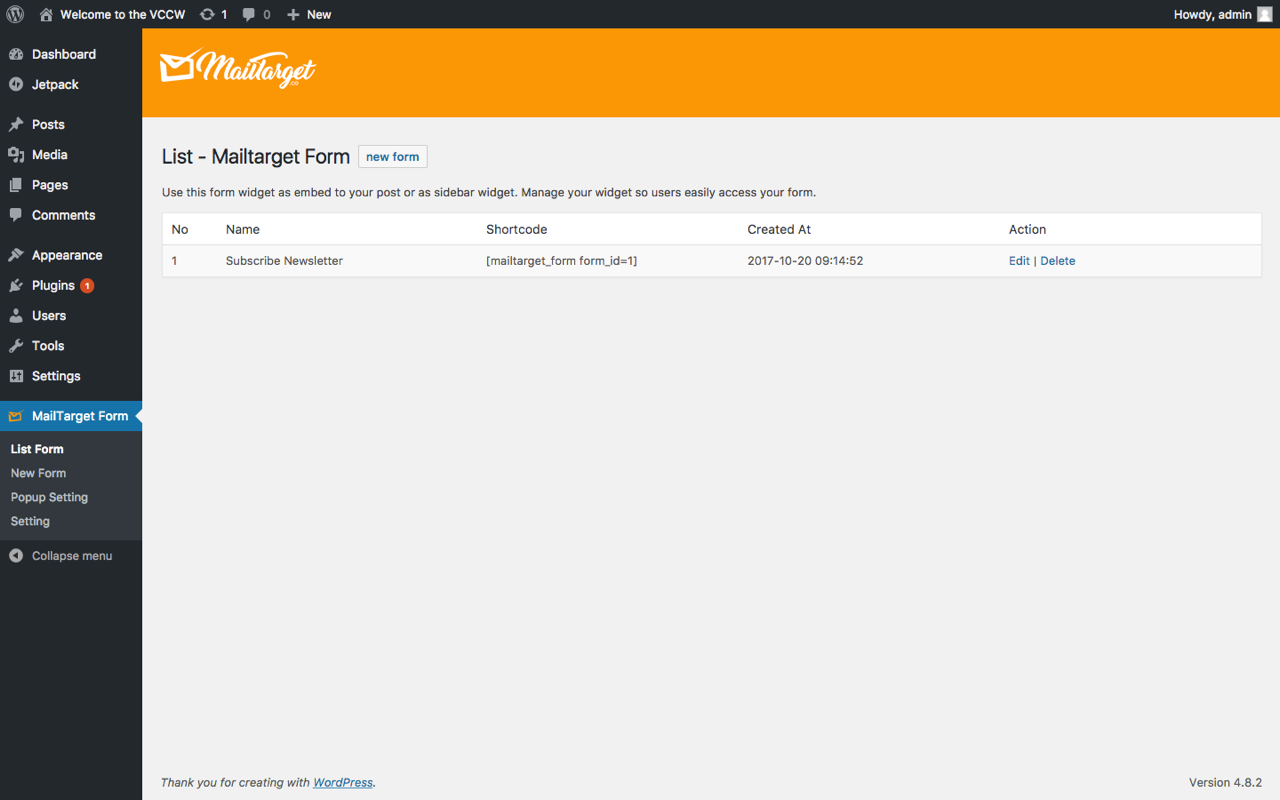
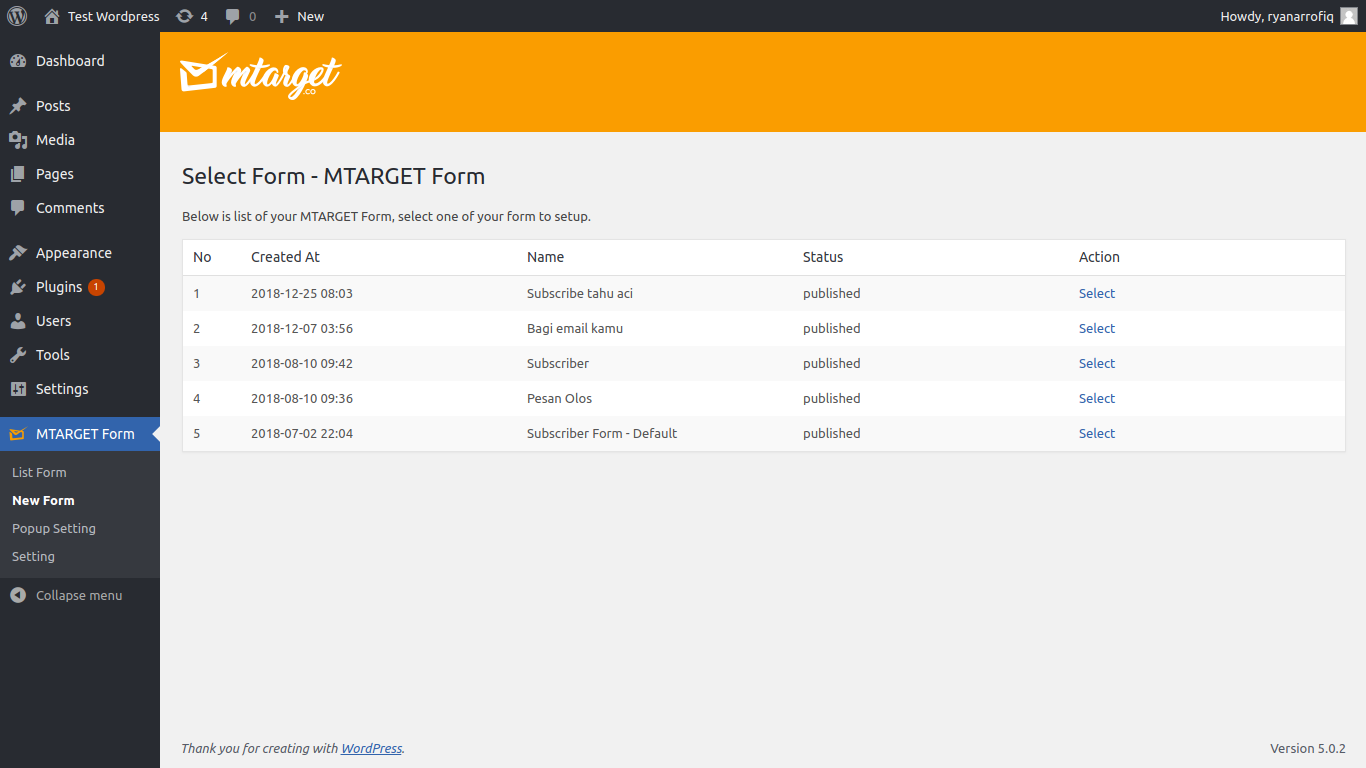
update text mtarget
git-svn-id: https://plugins.svn.wordpress.org/mailtarget-form/trunk@2005649 b8457f37-d9ea-0310-8a92-e5e31aec5664

diff --git a/views/admin/setup.php b/views/admin/setup.php
@@ -3,7 +3,7 @@ $popupEnable = esc_attr(get_option('mtg_popup_enable')) == '1';
 ?>
 
 <?php if (isset($_GET['success'])) {
-    ?><div class="update-nag">Mailtarget Form configuration updated successfully !</div><?php
+    ?><div class="update-nag">MTARGET Form configuration updated successfully !</div><?php
 } ?>
 
 <div class="mtg-form-plugin">
@@ -12,10 +12,10 @@ $popupEnable = esc_attr(get_option('mtg_popup_enable')) == '1';
     </div>
 
     <div class="wrap">
-        <h1 class="wp-heading-inline">Setup - Mailtarget Form</h1>
+        <h1 class="wp-heading-inline">Setup - MTARGET Form</h1>
         <div class="mtg-form-wrapper">
-            <p>Use this plugin to show your MailTarget Form in your Wordpress Application as embed to your post, as widget or as popup form. You may choose MailTarget Form directly from your Wordpress Application.</p>
-            <p>But you must set API token via form below, you can find the API token at integration page of MailTarget Application.</p>
+            <p>Use this plugin to show your MTARGET Form in your Wordpress Application as embed to your post, as widget or as popup form. You may choose MTARGET Form directly from your Wordpress Application.</p>
+            <p>But you must set API token via form below, you can find the API token at integration page of MTARGET Application.</p>
             <form method="post" action="admin.php?page=mailtarget-form-plugin--admin-menu">
                 <?php settings_fields( $this->option_group ); ?>
                 <?php do_settings_sections( $this->option_group ); ?>

diff --git a/views/admin/form_popup.php b/views/admin/form_popup.php
@@ -7,7 +7,7 @@ $popupEnable = esc_attr(get_option('mtg_popup_enable')) == '1';
 ?>
 
 <?php if (isset($_GET['success'])) {
-    ?><div class="update-nag">Mailtarget Form Popup configuration updated successfully !</div><?php
+    ?><div class="update-nag">MTARGET Form Popup configuration updated successfully !</div><?php
 } ?>
 
 <div class="mtg-form-plugin">
@@ -16,7 +16,7 @@ $popupEnable = esc_attr(get_option('mtg_popup_enable')) == '1';
     </div>
 
     <div class="wrap">
-        <h1 class="wp-heading-inline">Setup New Form - Mailtarget Form</h1>
+        <h1 class="wp-heading-inline">Setup New Form - MTARGET Form</h1>
         <div class="mtg-form-wrapper">
             <?php if ($formId != '') { ?>
                 <form method="post" action="admin.php?page=mailtarget-form-plugin--admin-menu">
@@ -24,7 +24,7 @@ $popupEnable = esc_attr(get_option('mtg_popup_enable')) == '1';
                     <?php do_settings_sections($this->option_group); ?>
                     <table class="form-table">
                         <tr class="user-rich-editing-wrap">
-                            <th>MailTarget Form Name</th>
+                            <th>MTARGET Form Name</th>
                             <td>
                                 <strong><?php echo esc_attr($formName) ?></strong>
                                 or <a class="page-title-action" href="admin.php?page=mailtarget-form-plugin--admin-menu-widget-form&for=popup">change form</a>

diff --git a/MailtargetFormPlugin.php b/MailtargetFormPlugin.php
@@ -1,11 +1,11 @@
 <?php
 
 /*
-  Plugin Name: MailTarget Form
-  Description: The MailTarget plugin to simplify embedding Mailtarget Form in your post or as widget, also easily to set Mailtarget Forms as popup.
-  Version: 1.0.3
-  Author: MailTarget Teams
-  Author URI: https://mailtarget.co/
+  Plugin Name: MTARGET Form
+  Description: The MTARGET plugin to simplify embedding MTARGET Form in your post or as widget, also easily to set MTARGET Forms as popup.
+  Version: 1.0.4
+  Author: MTARGET Teams
+  Author URI: https://mtarget.co/
   License: GPL V3
  */
 
@@ -57,7 +57,7 @@ class MailtargetFormPlugin {
         add_action( 'admin_init', array( $this, 'register_setting') );
         add_action( 'admin_init', array( $this, 'handling_admin_post') );
         add_action( 'init', array( $this, 'handling_post') );
-//        add_action( 'wp_ajax_nopriv_form_submit', array( $this, 'handling_ajax_post') );
+
 	}
 
 	public function get_plugin_url() {
@@ -421,8 +421,8 @@ class MailtargetFormPlugin {
 
 	function set_admin_menu () {
         add_menu_page(
-            'MailTarget Form',
-            'MailTarget Form',
+            'MTARGET Form',
+            'MTARGET Form',
             'manage_options',
             'mailtarget-form-plugin--admin-menu',
             null,

diff --git a/views/admin/error.php b/views/admin/error.php
@@ -25,15 +25,15 @@ if ($code == 413 and $data = 'invalid origin host') $errSlug = 'cap-domain-regis
     </div>
 
     <div class="wrap">
-        <h1 class="">Error - Mailtarget Form</h1>
+        <h1 class="">Error - MTARGET Form</h1>
         <?php switch ($errSlug) {
             case 'unset-api-key':
                 ?><div class="update-nag">Apikey not set, please update your apikey at
-                <a href="admin.php?page=mailtarget-form-plugin--admin-menu-config">mailtarget form setting</a></div><?php
+                <a href="admin.php?page=mailtarget-form-plugin--admin-menu-config">mtarget form setting</a></div><?php
                 break;
             case 'expired-token':
                 ?><div class="update-nag">Apikey invalid or expired, please update your apikey at
-                <a href="admin.php?page=mailtarget-form-plugin--admin-menu-config">mailtarget form setting</a></div><?php
+                <a href="admin.php?page=mailtarget-form-plugin--admin-menu-config">mtarget form setting</a></div><?php
                 break;
             case 'form-not-found':
                 ?><div class="update-nag">Form data not found, possible form not published yet</div><?php

diff --git a/views/admin/wp_form_add.php b/views/admin/wp_form_add.php
@@ -3,14 +3,14 @@
         <img src="<?php echo esc_url(MAILTARGET_PLUGIN_URL.'/assets/image/logo.png') ?>" />
     </div>
     <div class="wrap">
-        <h1 class="wp-heading-inline">Setup New Form - Mailtarget Form</h1>
+        <h1 class="wp-heading-inline">Setup New Form - MTARGET Form</h1>
         <div class="mtg-form-wrapper">
             <form method="post" action="admin.php?page=mailtarget-form-plugin--admin-menu">
                 <?php settings_fields( $this->option_group ); ?>
                 <?php do_settings_sections( $this->option_group ); ?>
                 <table class="form-table">
                     <tr class="user-rich-editing-wrap">
-                        <th>MailTarget Form Name</th>
+                        <th>MTARGET Form Name</th>
                         <td><strong><?php echo esc_attr($form['name']) ?></strong>
                             <input type="hidden" name="form_id" value="<?php echo esc_attr($form['formId']) ?>">
                         </td>

diff --git a/views/admin/wp_form_edit.php b/views/admin/wp_form_edit.php
@@ -15,7 +15,7 @@ if (isset($data->widget_redir)) $widget_redir = $data->widget_redir;
         <img src="<?php echo esc_url(MAILTARGET_PLUGIN_URL.'/assets/image/logo.png') ?>" />
     </div>
     <div class="wrap">
-        <h1 class="wp-heading-inline">Edit Form - Mailtarget Form</h1>
+        <h1 class="wp-heading-inline">Edit Form - MTARGET Form</h1>
         <div class="mtg-form-wrapper">
             <form method="post" action="admin.php?page=mailtarget-form-plugin--admin-menu">
                 <?php settings_fields( $this->option_group ); ?>

diff --git a/views/admin/form_list.php b/views/admin/form_list.php
@@ -11,8 +11,8 @@ $pg = isset($_GET['pg']) ? intval($_GET['pg']) : 1;
     </div>
 
     <div class="wrap">
-        <h1 class="wp-heading-inline">Select Form - Mailtarget Form</h1>
-        <p>Below is list of your MailTarget Form, select one of your form to setup.</p>
+        <h1 class="wp-heading-inline">Select Form - MTARGET Form</h1>
+        <p>Below is list of your MTARGET Form, select one of your form to setup.</p>
 
         <?php if (count($forms['data']) < 1) {?>
             <div class="update-nag">List empty, start by

diff --git a/views/admin/wp_form_list.php b/views/admin/wp_form_list.php
@@ -3,7 +3,7 @@
         <img src="<?php echo esc_url(MAILTARGET_PLUGIN_URL.'/assets/image/logo.png') ?>" />
     </div>
     <div class="wrap">
-        <h1 class="wp-heading-inline">List - Mailtarget Form</h1>
+        <h1 class="wp-heading-inline">List - MTARGET Form</h1>
         <?php if (count($widgets) < 1) {?>
             <div class="update-nag">List empty, start by
                 <a href="admin.php?page=mailtarget-form-plugin--admin-menu-widget-form">creating one</a></div><?php

diff --git a/include/mailtarget_popup.php b/include/mailtarget_popup.php
@@ -4,7 +4,7 @@ class MailTarget_Popup {
 
     public static function init () {
         $formId = esc_attr(get_option('mtg_popup_form_id'));
-        $delay = intval(esc_attr(get_option('mtg_popup_delay'))) * 1000;
+        $delay = esc_attr(get_option('mtg_popup_delay')) * 1000;
         $popupEnable = esc_attr(get_option('mtg_popup_enable')) == '1';
         if ($formId == '') return false;
         if (!$popupEnable) return false;

diff --git a/README.md b/README.md
@@ -1,7 +1,7 @@
 
-# Mailtarget Wordpress Form Plugin
+# MTARGET Wordpress Form Plugin
 
-This is a plugin for embedding mailtarget form into wordpress application
+This is a plugin for embedding mtarget form into wordpress application
 
 # History
 
@@ -14,8 +14,12 @@ Initial release, features:
 
 ## v1.0.2
 Changes:
-- bug fix handle response from mailtarget api
+- bug fix handle response from mtarget api
 
 ## v1.0.3
 Changes:
 - change form post method from legacy to jquery ajax post
+
+## v1.0.4
+Changes:
+- change form MailTarget to MTARGET
